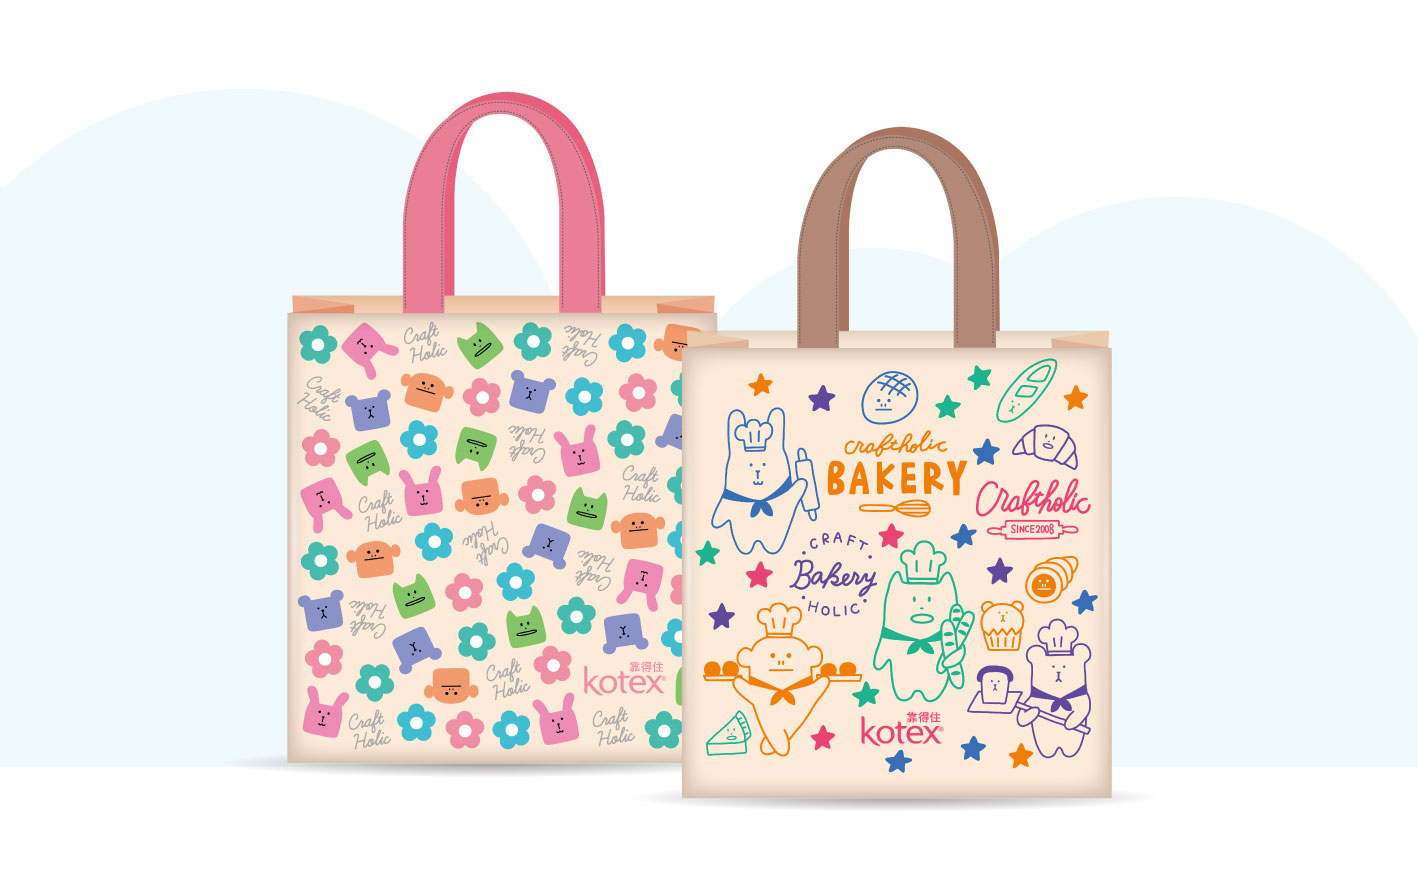
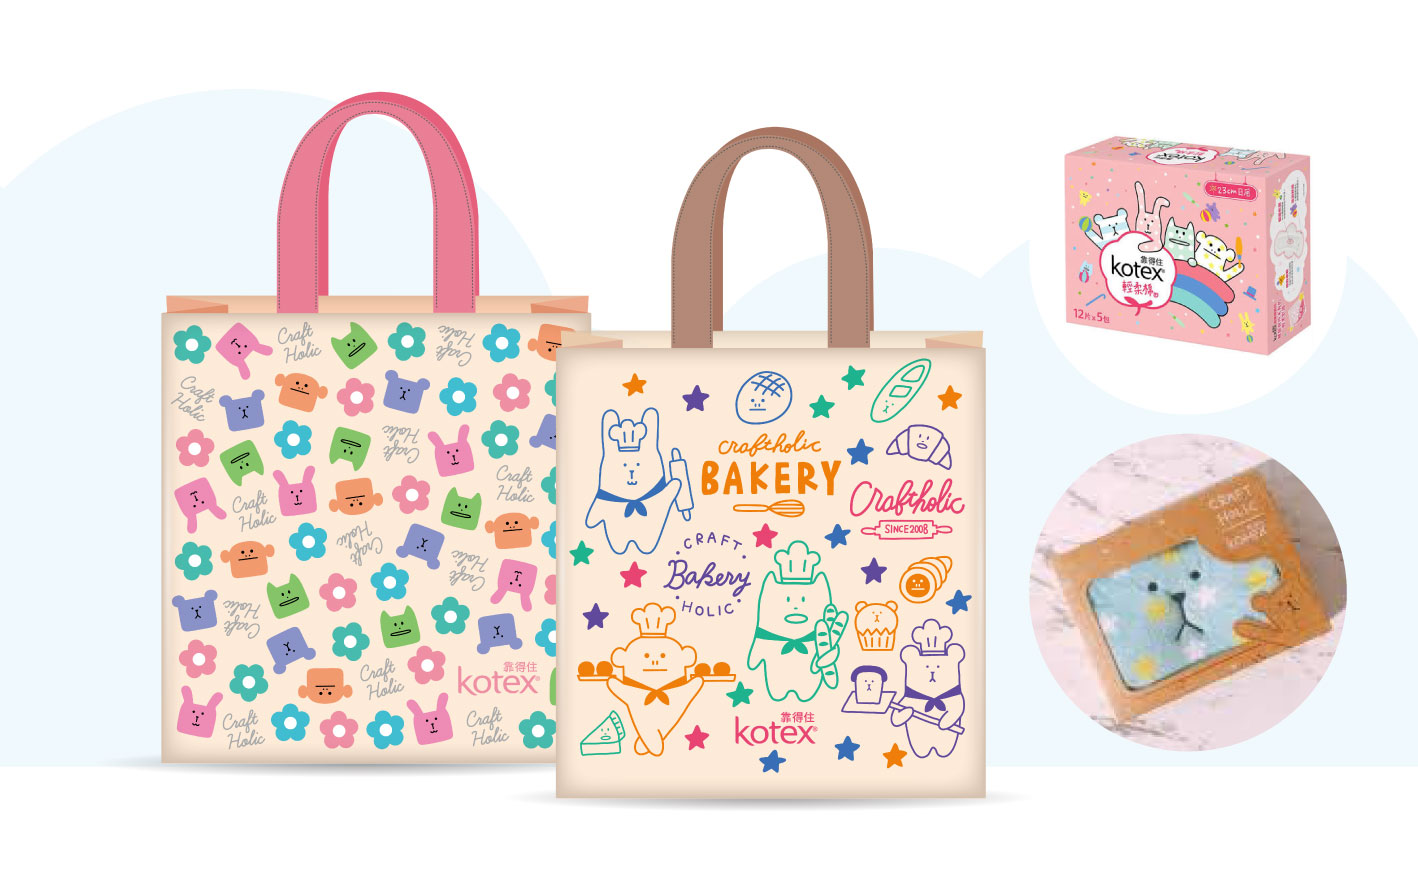
更新

diff --git a/js/main.js b/js/main.js
@@ -66,12 +66,13 @@ var inner_txt =[
         h2:'Kotex | 輕柔棉聯名包裝',
         date:'2019.09',
         tit:'靠得住Ｘ宇宙人聯名 | 主視覺、包裝設計、棉片袋設計、贈品設計、立體圖',
-        count:4,
+        count:5,
         image:[
             "./img/project_01_1.jpg",
             "./img/project_01_2.jpg",
             "./img/project_01_3.jpg",
-            "./img/project_01_4.jpg"
+            "./img/project_01_4.jpg",
+            "./img/project_01_5.jpg"
         ],
     },
     {
@@ -266,9 +267,10 @@ var inner_txt =[
         h2:'Huggies | LINE聯名禮物箱',
         date:'2020.05',
         tit:'好奇ＸLINE | 包裝設計、廣吿banner、立體圖',
-        count:1,
+        count:2,
         image:[
-            "./img/project_015_1.jpg"
+            "./img/project_015_1.jpg",
+            "./img/project_015_2.jpg"
         ],
     },
     {
@@ -331,6 +333,23 @@ var inner_txt =[
         image:[
             "./img/project_022_1.jpg",
             "./img/project_022_2.jpg",
+        ],
+    },
+    {
+        tag:1,
+        mark:'package design',
+        h2:'創作系列',
+        date:'2016.6',
+        tit:'創作系列 | LOGO、包裝設計、插畫 | <a href="https://www.opds.tw/muji_2017Xmas/" style="color: cornflowerblue;"> 前往網站</a>',
+        count:7,
+        image:[
+            "./img/project_025_1.jpg",
+            "./img/project_025_2.jpg",
+            "./img/project_025_3.jpg",
+            "./img/project_025_4.jpg",
+            "./img/project_025_5.jpg",
+            "./img/project_025_6.jpg",
+            "./img/project_025_7.jpg",
         ],
     },
 ];

diff --git a/index.html b/index.html
@@ -240,6 +240,14 @@
                     <time>2018.12</time>
                 </div>
             </div>
+            <div class="item package" data-category="package">
+                <div class="item__inner">
+                    <img src="./img/project_025.jpg" alt="">
+                    <mark>package design</mark>
+                    <h1>創作系列 | LOGO、包裝設計、插畫</h1>
+                    <time>2016.6</time>
+                </div>
+            </div>
 
 
 
